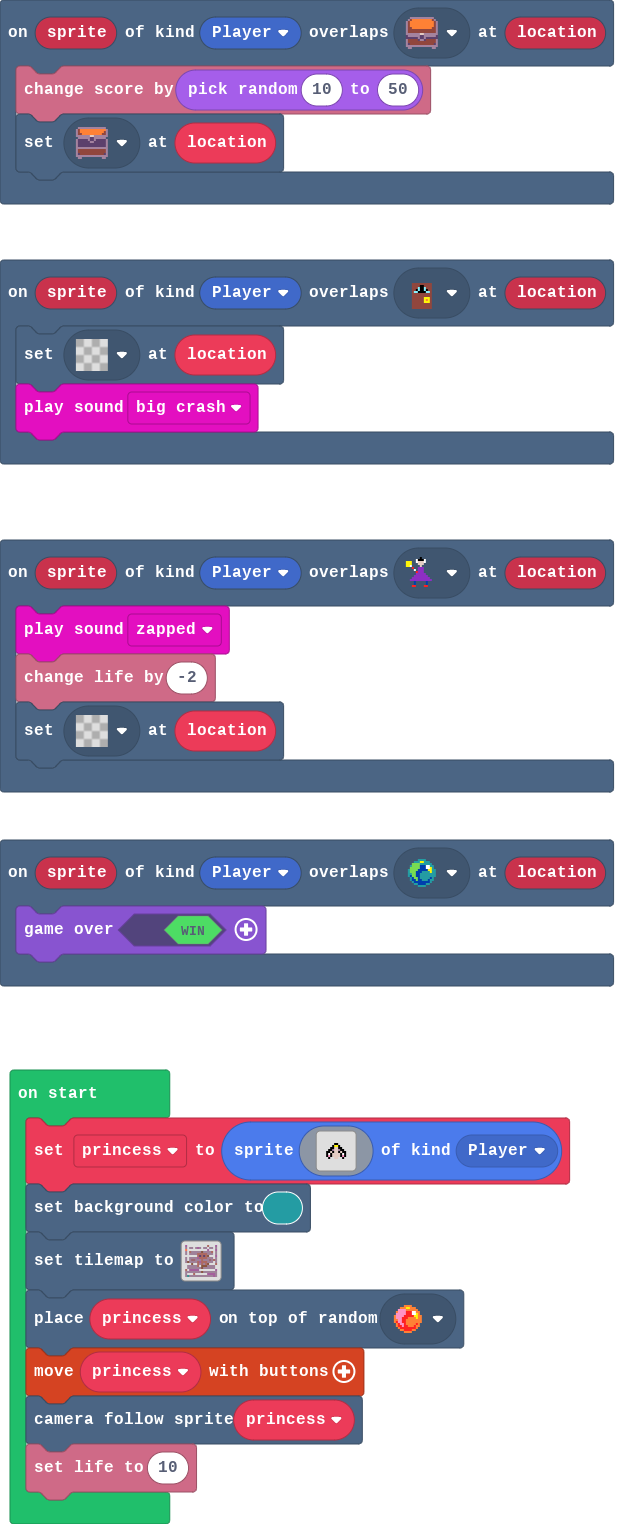
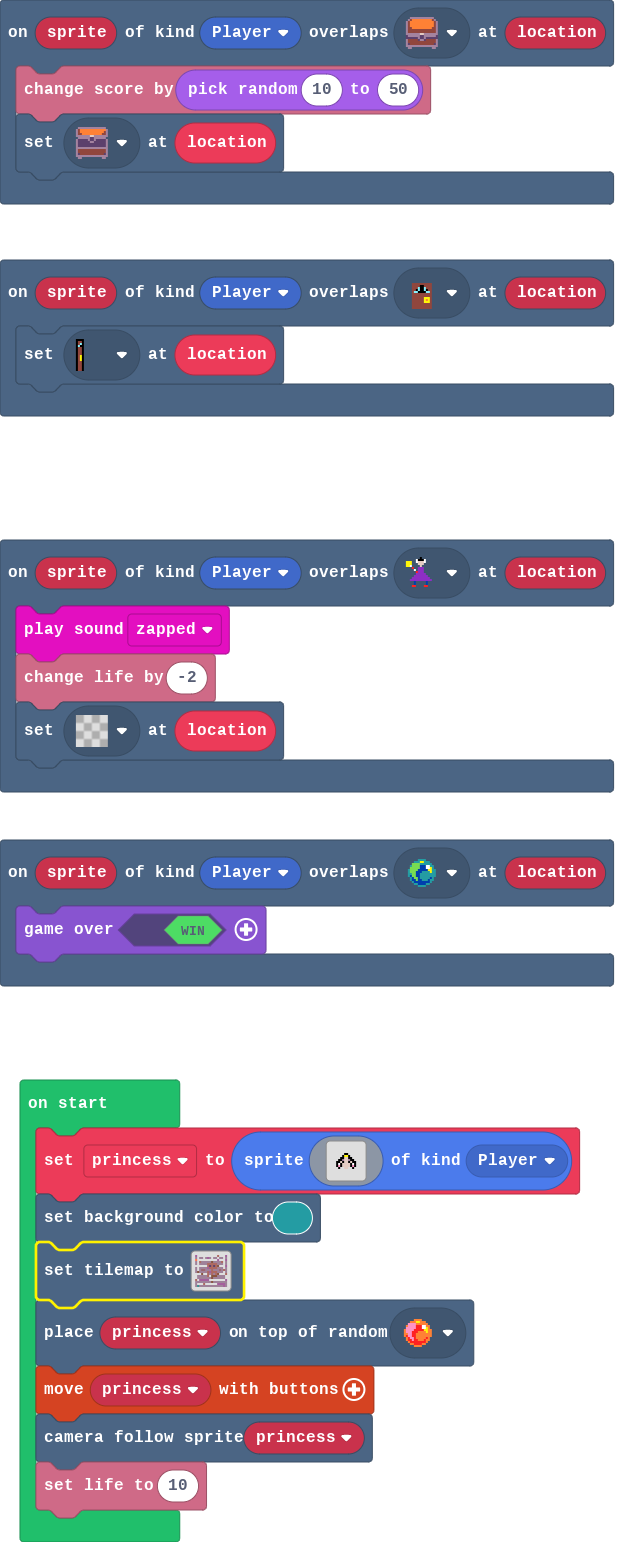
Update main.blocks, main.ts, images.g.jres, images.g.ts, tilemap.g.jres, tilemap.g.ts

diff --git a/images.g.ts b/images.g.ts
@@ -3,7 +3,43 @@ namespace myImages {
 
     helpers._registerFactory("image", function(name: string) {
         switch(helpers.stringTrim(name)) {
+            case "image2":return img`
+. . . . . . . . . . . . . . . . 
+. . . . . . . . . . . . . . . . 
+. . . . . . . . . . . . . . . . 
+. . . . . . . . . . . . . . . . 
+. . . . . . . f f . . . . . . . 
+. . . . . . f 5 5 f . . . . . . 
+. . . . . f f d d f f . . . . . 
+. . . . f f b d d b f f . . . . 
+. . . f f d f d d f d f f . . . 
+. . . f 1 f d d d d f 1 f . . . 
+. . . f 3 f d d d d f 3 f . . . 
+. . . . f . . d d . . f . . . . 
+. . . . . . . . . . . . . . . . 
+. . . . . . . . . . . . . . . . 
+. . . . . . . . . . . . . . . . 
+. . . . . . . . . . . . . . . . 
+`;
             case "image1":return img`
+. . . . . . . . . . . . . . . . 
+. . . . . . . . . . . . . . . . 
+. . . . . . . . . . . . . . . . 
+. . . . . . . . . . . . . . . . 
+. . . . . . . f f . . . . . . . 
+. . . . . . f 5 5 f . . . . . . 
+. . . . . f f d d f f . . . . . 
+. . . . f f b d d b f f . . . . 
+. . . f f d f d d f d f f . . . 
+. . . f 1 f d d d d f 1 f . . . 
+. . . f 3 f d d d d f 3 f . . . 
+. . . . f . . d d . . f . . . . 
+. . . . . . . . . . . . . . . . 
+. . . . . . . . . . . . . . . . 
+. . . . . . . . . . . . . . . . 
+. . . . . . . . . . . . . . . . 
+`;
+            case "image3":return img`
 . . . . . . . . . . . . . . . . 
 . . . . . . . . . . . . . . . . 
 . . . . . . . . . . . . . . . . 

diff --git a/tilemap.g.ts b/tilemap.g.ts
@@ -6,6 +6,8 @@ namespace myTiles {
     export const tile1 = image.ofBuffer(hex``);
     //% fixedInstance jres blockIdentity=images._tile
     export const tile2 = image.ofBuffer(hex``);
+    //% fixedInstance jres blockIdentity=images._tile
+    export const tile3 = image.ofBuffer(hex``);
 
     helpers._registerFactory("tilemap", function(name: string) {
         switch(helpers.stringTrim(name)) {
@@ -27,7 +29,7 @@ namespace myTiles {
 2 2 2 2 2 2 2 2 . 2 2 2 2 2 2 2 
 2 . . . . . . . . . . . . . . 2 
 2 . 2 2 2 2 2 2 2 2 2 2 2 2 . 2 
-`, [myTiles.transparency16,sprites.dungeon.darkGroundNorthWest1,sprites.dungeon.collectibleRedCrystal,sprites.dungeon.collectibleBlueCrystal,myTiles.tile1,myTiles.tile2,sprites.castle.rock2,sprites.dungeon.chestClosed,sprites.dungeon.chestOpen], TileScale.Sixteen);
+`, [myTiles.transparency16,sprites.dungeon.darkGroundNorthWest1,sprites.dungeon.collectibleRedCrystal,sprites.dungeon.collectibleBlueCrystal,myTiles.tile1,myTiles.tile2,sprites.castle.rock2,sprites.dungeon.chestClosed,sprites.dungeon.chestOpen,myTiles.tile3], TileScale.Sixteen);
         }
         return null;
     })
@@ -39,6 +41,8 @@ namespace myTiles {
             case "tile1":return tile1;
             case "myTile0":
             case "tile2":return tile2;
+            case "myTile1":
+            case "tile3":return tile3;
         }
         return null;
     })

diff --git a/main.ts b/main.ts
@@ -1,6 +1,5 @@
 scene.onOverlapTile(SpriteKind.Player, assets.tile`myTile0`, function (sprite, location) {
-    tiles.setTileAt(location, assets.tile`transparency16`)
-    music.bigCrash.play()
+    tiles.setTileAt(location, assets.tile`myTile1`)
 })
 scene.onOverlapTile(SpriteKind.Player, assets.tile`myTile`, function (sprite, location) {
     music.zapped.play()
